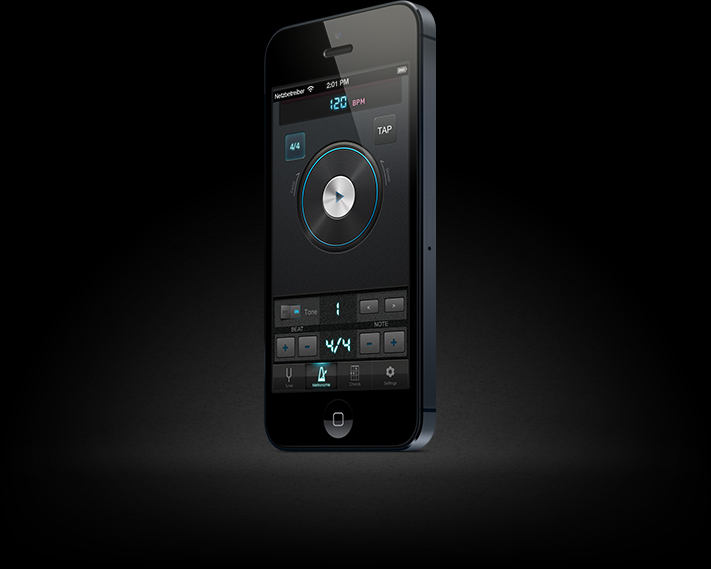
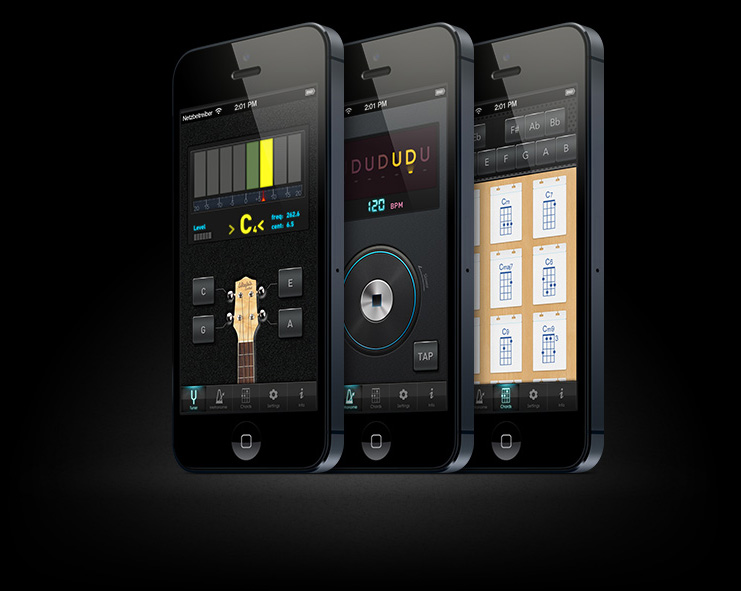
UPDATED: Ukulele Toolkit web view

Changed region(s): [[0.2166, 0.0, 0.8354, 0.8067]]

diff --git a/templates/ukulele.html b/templates/ukulele.html
@@ -28,21 +28,22 @@
             <div class="pic"></div>
             <div class="intro">
                 <h3 class="title">What is Ukulele Toolkit</h3>
-                <p class="desc">It is a collection of essential ukulele tools for ukulele players. It contains three tools for daily use:</p>
+                <p class="desc">It is a collection of essential ukulele tools for ukulele players. It contains three daily used tools:</p>
                 <ol class="desc">
                     <li><em>1.Extremely accurate tuner.</em></li>
-                    <li><em>2.Precision metronome.</em></li>
+                    <li><em>2.Precision metronome with strumming patterns.</em></li>
                     <li><em>3.Interactive Chord Sheets with real ukulele sounds.</em></li>
                 </ol>
-                <p class="desc">With Ukulele Toolkit, you can have a mobile tool for ukulele in your pocket, no matter where you are.</p>
+                <p class="desc">It supports three ukulele tuning modes: Tenor, Soprano and Baritone. With Ukulele Toolkit, you can have a mobile tool of ukulele in your pocket, no matter where you are.</p>
             </div>
         </div>
     </div>
     <div class="section section-1">
         <div class="center">
+            <div class="pic"></div>
             <div class="intro">
                 <h3 class="title">Extremely Accurate Tuner</h3>
-                <p class="desc">The chromatic tuner has a quick tune bar and an accurate meter bar. With a beautiful tuning color bar, you can find your current tune in just seconds. Meters can also help to show the current pitch in a more accurate way. It also includes real ukulele string sounds, which you can use to tune by ear. What's more, it is highly accurate (up to ±1/1000 semitone (±0.1 cent) precise).</p>
+                <p class="desc">The chromatic tuner has a quick tune bar and an accurate meter bar. With beautiful tuning color bar, you can find your current tune just in seconds. Meters can also helps to show the current pitch in more accurate way. It also includes real ukulele string sound with which you can use to tune by ear. What's more, it is highly accurate (up to ±1/1000 semitone (±0.1 cent) precise).</p>
             </div>
         </div>
     </div>
@@ -53,7 +54,7 @@
                 <h3 class="title">Precision Metronome</h3>
                 <p class="desc">The metronome benefits from EUM's RTP ( Real-time Playback) technology, it is extremely precise(±0.2μs).</p>
                 <p class="desc">Pendulum mode is just like your old traditional metronome, you can follow the beat easily, even in silent mode. With the help of the dial wheel, changing tempo is really simple.</p>
-                <p class="desc">Moreover, it supports flexible Time Signature changing mode, with which you can set any T.S. you like. 7 Built-in tones are also supported.</p>
+                <p class="desc">It supports flexible Time Signature changing mode, with which you can set any T.S. you like. 8 built-in tones are also supported. With built-in 13 Strumming patterns, you can practice strumming more easily.</p>
             </div>
         </div>
     </div>
@@ -62,14 +63,16 @@
             <div class="pic"></div>
             <div class="intro">
                 <h3 class="title">Interactive Chord Sheets</h3>
-                <p class="desc">The Chord Sheets contain <em>over 100 chords</em>, including Major, Minor, 6, 7, Minor 7, Major 7, Major 9, sus 4.</p>
-                <p class="desc">You can not only see the chord sheets, but also hear what they sound like. It is quite useful for beginners to learn chords and advanced users to get inspiration.</p>
+                <p class="desc">The Chord Sheets contains <em>over 800 chords</em>, almost every chords you might need, including Major, Minor, 6, 7, Minor 7, Major 7, Major 9, sus 4, etc.</p>
+                <p class="desc">You can not only see the chord sheets, but also hear what they sounds like as well. It is quite useful for beginners to learn chords and advanced users to get inspiration. The chords can be sorted by both note and key signature.</p>
+                <p class="desc">In key signature mode, you don't need to switch notes to get expected chords. All related chords will be displayed in one page.</p>
             </div>
         </div>
     </div>
     <div class="section section-4">
         <div class="center">
             <div class="pic"></div>
+            <span class="app-name">Ukulele Toolkit</span>
             <a href="http://itunes.apple.com/app/id581273909?ls=1&mt=8" target="_blank" class="link-app-store" title="Download Ukulele Toolkit from APP Store">Available on the App Store</a>
         </div>
     </div>

diff --git a/assets/styles/ukulele.css b/assets/styles/ukulele.css
@@ -59,10 +59,10 @@
         position: absolute;
         z-index: 0;
         top: 100px;
-        right: -150px;
-        width: 711px;
-        height: 569px;
-        background: url(../images/ut-feature-0.jpg) 0 0 no-repeat;
+        right: -160px;
+        width: 741px;
+        height: 591px;
+        background: url(../images/ut-feature-0.jpg) 0 100% no-repeat;
     }
 
     .section-0 .intro {
@@ -90,7 +90,17 @@
     .section-1 .center {
         height: 790px;
         position: relative;
+
+    }
+
+    .section-1 .pic {
+        position: absolute;
+        top: 238px;
+        left: 50%;
+        margin-left: -590px;
         background: url(../images/ut-feature-1.jpg) 50% 100% no-repeat;
+        width: 1179px;
+        height: 552px;
     }
 
     .section-1 .intro {
@@ -140,7 +150,7 @@
 }
 
     .section-3 .center {
-        height: 664px;
+        height: 764px;
         position: relative;
     }
 
@@ -149,8 +159,8 @@
         top: 150px;
         left: 25px;
         background: url(../images/ut-feature-3.jpg) 0 0 no-repeat;
-        width: 440px;
-        height: 514px;
+        width: 480px;
+        height: 574px;
     }
 
     .section-3 .intro {
@@ -185,6 +195,16 @@
         width: 890px;
         height: 586px;
         background: url(../images/ut-feature-4.png) 0 0 no-repeat;
+    }
+
+    .section-4 .app-name {
+        font-size: 18px;
+        color: #d3f3f6;
+        font-family: "DIN-Regular", "Helvetica Neue", Helvetica, arial, sans-serif;
+        font-weight: bold;
+        position: absolute;
+        top: 425px;
+        right: 56px;
     }
 
     .section-4 .link-app-store {
